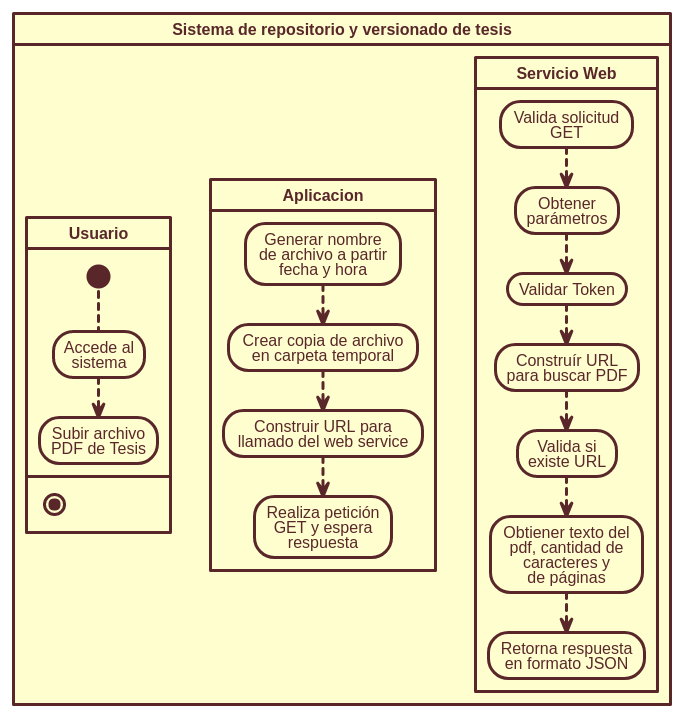
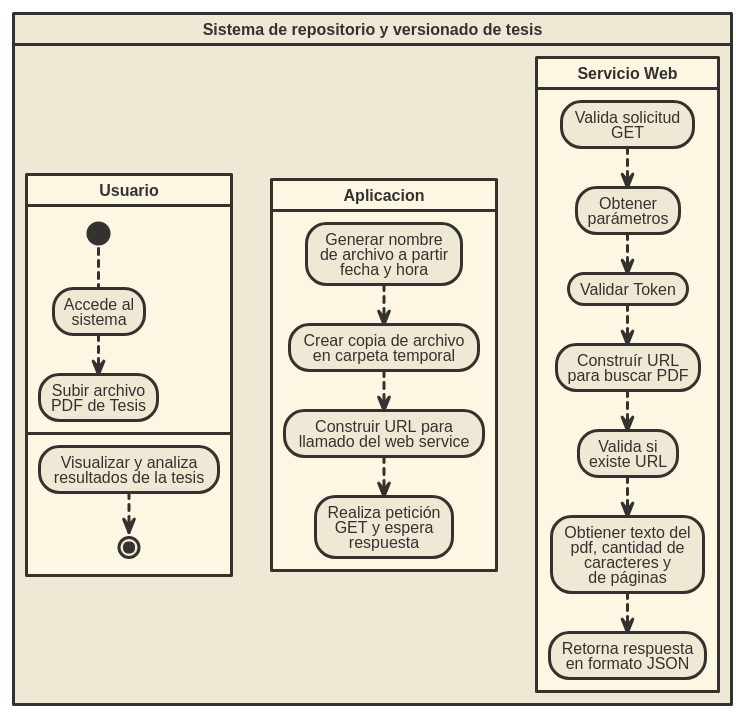
Se agrega nueva imagen de codetouml

Changed region(s): [[0.0, 0.0, 0.9839, 1.0]]

diff --git a/docs/6 - Design.rst b/docs/6 - Design.rst
@@ -123,3 +123,5 @@ La siguiente imágen fue creada con la herramienta **draw.io**
 
 La siguiente imágen fue creada mediante código con la herramienta **codetouml** http://londres.ceisufro.cl/codetouml. 
 El diagrama se encuentra incompleto ya que no se logró asociar correctamente el actor Profesor Guía con el caso de uso "Mostrar formulario upload tesis".
+
+.. image:: image/diagrama_caso_uso.png
